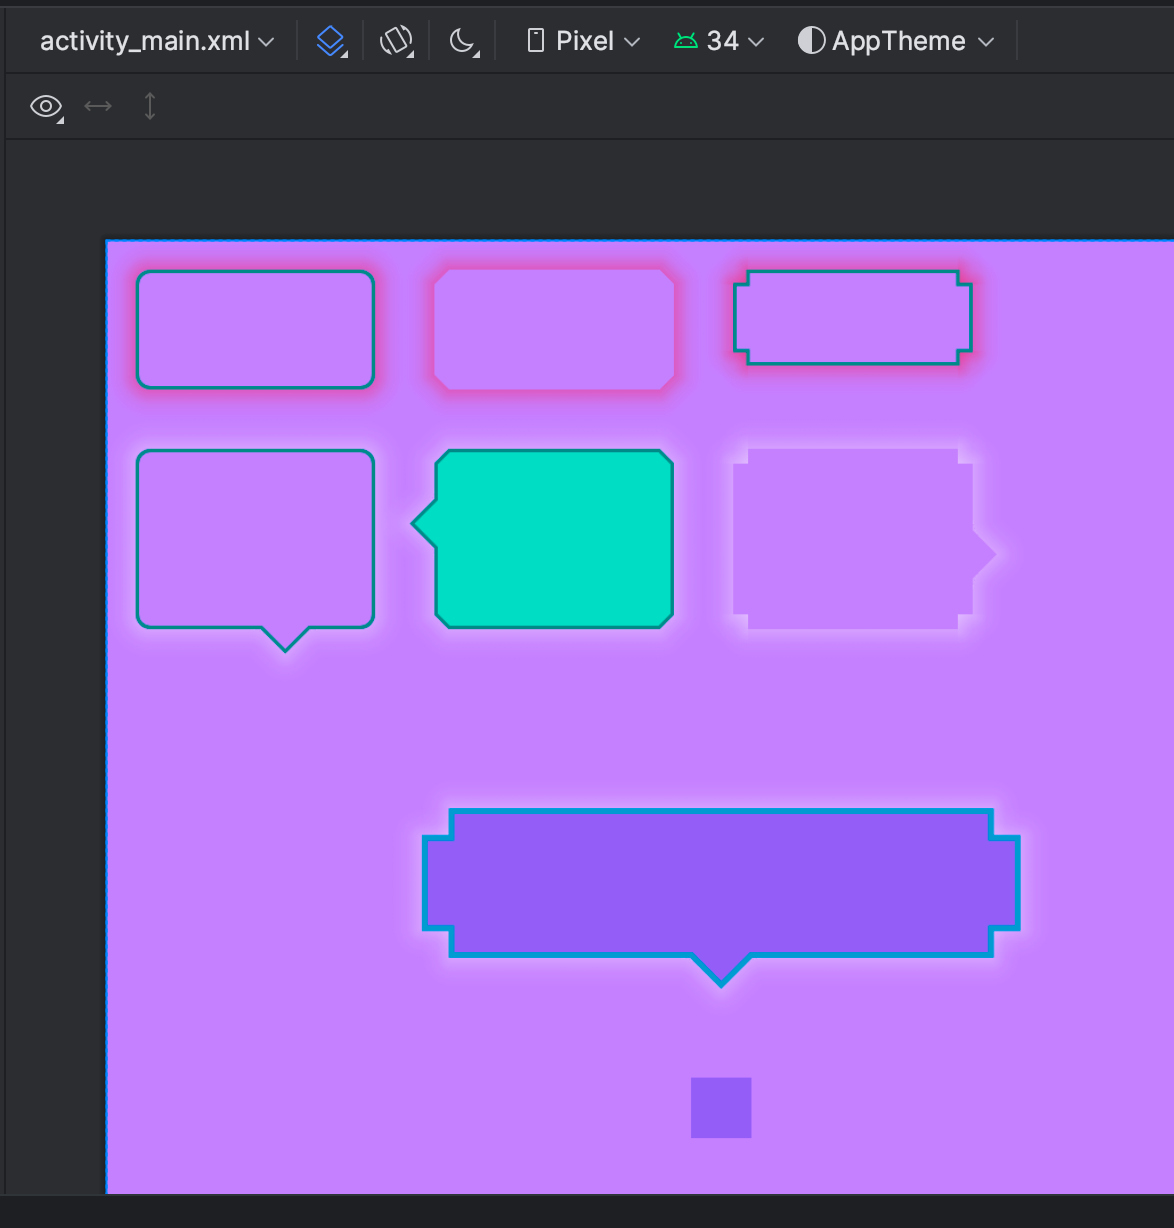
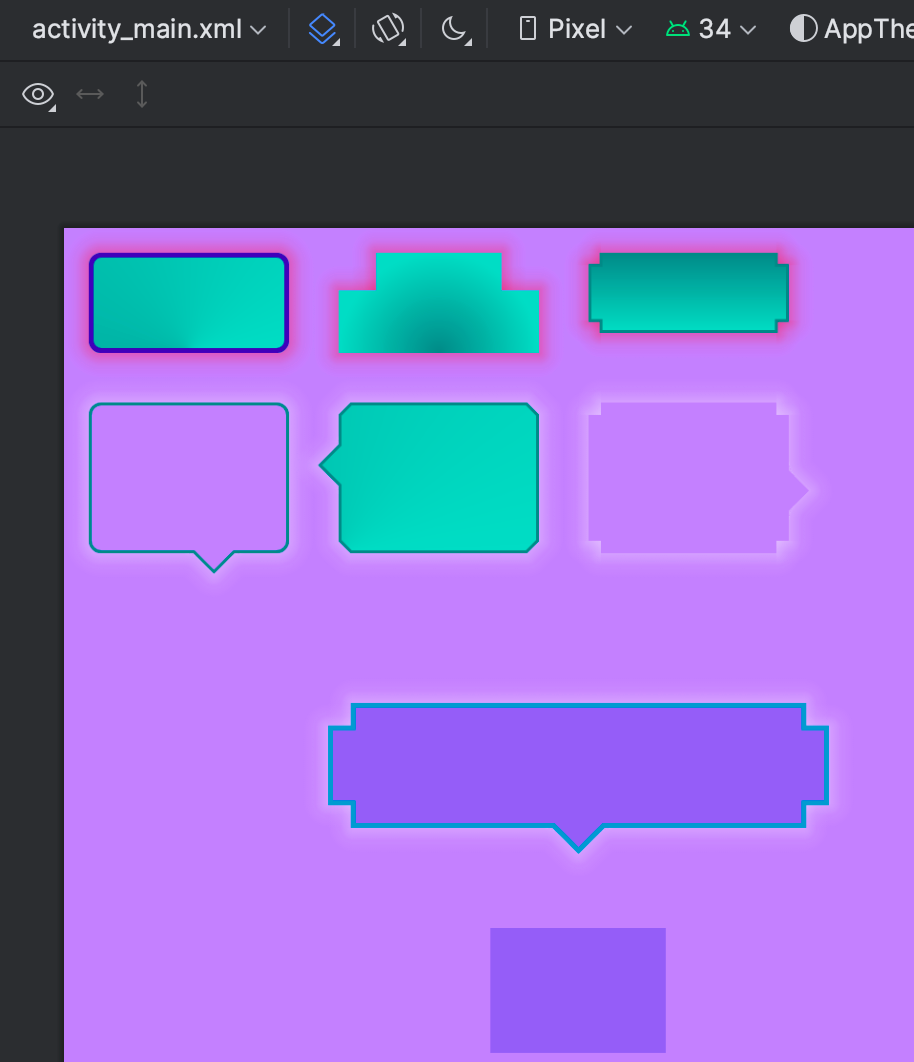
#

diff --git a/shapeable/src/main/java/me/reezy/cosmo/shapeable/ShapeableDrawable.kt b/shapeable/src/main/java/me/reezy/cosmo/shapeable/ShapeableDrawable.kt
@@ -6,14 +6,22 @@ import android.content.res.ColorStateList
 import android.content.res.Resources
 import android.content.res.TypedArray
 import android.graphics.Color
+import android.graphics.LinearGradient
+import android.graphics.Paint
 import android.graphics.Path
+import android.graphics.RadialGradient
 import android.graphics.Rect
 import android.graphics.RectF
+import android.graphics.Shader
+import android.graphics.SweepGradient
+import android.graphics.drawable.GradientDrawable
 import android.util.AttributeSet
 import androidx.core.content.res.TypedArrayUtils.obtainAttributes
 import androidx.core.graphics.ColorUtils
+import androidx.core.graphics.toRectF
 import com.google.android.material.shadow.ShadowRenderer
 import com.google.android.material.shape.CornerSize
+import com.google.android.material.shape.CornerTreatment
 import com.google.android.material.shape.CutCornerTreatment
 import com.google.android.material.shape.MaterialShapeDrawable
 import com.google.android.material.shape.RoundedCornerTreatment
@@ -38,6 +46,7 @@ class ShapeableDrawable(shapeModel: ShapeAppearanceModel) : MaterialShapeDrawabl
     val clipPath = Path()
 
     private val clipRect: RectF = RectF()
+    private val mGradientState = GradientState()
 
     constructor() : this(ShapeAppearanceModel())
 
@@ -57,45 +66,72 @@ class ShapeableDrawable(shapeModel: ShapeAppearanceModel) : MaterialShapeDrawabl
         ta.recycle()
     }
 
-    private fun initAttrs(ta: TypedArray) {
-        strokeColor = ta.getColorStateList(R.styleable.ShapeableDrawable_strokeColor)
-        strokeWidth = ta.getDimensionPixelSize(R.styleable.ShapeableDrawable_strokeWidth, 0).toFloat()
-        tintList = ta.getColorStateList(R.styleable.ShapeableDrawable_backgroundTint) ?: ColorStateList.valueOf(Color.TRANSPARENT)
+    private fun initAttrs(a: TypedArray) {
+        strokeColor = a.getColorStateList(R.styleable.ShapeableDrawable_strokeColor)
+        strokeWidth = a.getDimensionPixelSize(R.styleable.ShapeableDrawable_strokeWidth, 0).toFloat()
+        tintList = a.getColorStateList(R.styleable.ShapeableDrawable_backgroundTint) ?: ColorStateList.valueOf(Color.TRANSPARENT)
 
-        if (ta.hasValue(R.styleable.ShapeableDrawable_cornerSize)) {
-            setCornerSize(ta.getDimensionPixelSize(R.styleable.ShapeableDrawable_cornerSize, 0).toFloat())
+        val cornerSize = a.getDimension(R.styleable.ShapeableDrawable_cornerSize, 0f)
+        if (cornerSize > 0f) {
+            val cornerType = a.getInteger(R.styleable.ShapeableDrawable_cornerType, 0)
+            val cornerPosition = a.getInteger(R.styleable.ShapeableDrawable_cornerPosition, 0)
+            setCorners(cornerSize, cornerPosition, cornerType)
         }
 
-        if (ta.hasValue(R.styleable.ShapeableDrawable_cornerType)) {
-            val cornerTreatment = when(ta.getInteger(R.styleable.ShapeableDrawable_cornerType, 0)) {
-                0 -> RoundedCornerTreatment()
-                1 -> CutCornerTreatment()
-                2 -> ConcaveCornerTreatment()
-                else -> RoundedCornerTreatment()
-            }
-            shapeAppearanceModel =  shapeAppearanceModel.toBuilder().setAllCorners(cornerTreatment).build()
+        // 渐变背景色
+        mGradientState.gradientColors = a.getGradientColors()
+        mGradientState.gradientType = a.getInt(R.styleable.ShapeableDrawable_gradientType, GradientDrawable.LINEAR_GRADIENT)
+        mGradientState.gradientRadius = a.getDimension(R.styleable.ShapeableDrawable_gradientRadius, 0f)
+        mGradientState.gradientCenterX = a.getFloat(R.styleable.ShapeableDrawable_gradientCenterX, 0.5f)
+        mGradientState.gradientCenterY = a.getFloat(R.styleable.ShapeableDrawable_gradientCenterY, 0.5f)
+        mGradientState.gradientOrientation = try {
+            GradientDrawable.Orientation.values()[a.getInt(R.styleable.ShapeableDrawable_gradientOrientation, 0)]
+        } catch (e: IndexOutOfBoundsException) {
+            GradientDrawable.Orientation.TOP_BOTTOM
         }
 
-        if (ta.hasValue(R.styleable.ShapeableDrawable_shadowRadius)) {
-            shadowRadius = ta.getDimensionPixelSize(R.styleable.ShapeableDrawable_shadowRadius, 0)
-        }
-        if (ta.hasValue(R.styleable.ShapeableDrawable_shadowColor)) {
-            setShadowColor(ta.getColor(R.styleable.ShapeableDrawable_shadowColor, 0))
+        if (mGradientState.gradientColors != null) {
+            setUseTintColorForShadow(false)
+            tintList = null
         }
 
+        // 阴影
+        if (a.hasValue(R.styleable.ShapeableDrawable_shadowRadius)) {
+            shadowRadius = a.getDimensionPixelSize(R.styleable.ShapeableDrawable_shadowRadius, 0)
+        }
+        if (a.hasValue(R.styleable.ShapeableDrawable_shadowColor)) {
+            setShadowColor(a.getColor(R.styleable.ShapeableDrawable_shadowColor, 0))
+        }
+        if (a.hasValue(R.styleable.ShapeableDrawable_shadowOffsetX) || a.hasValue(R.styleable.ShapeableDrawable_shadowOffsetY)) {
+            val shadowOffsetY = a.getDimensionPixelSize(R.styleable.ShapeableDrawable_shadowOffsetY, 0)
+            val shadowOffsetX = a.getDimensionPixelSize(R.styleable.ShapeableDrawable_shadowOffsetX, 0)
+            setShadowOffset(shadowOffsetX, shadowOffsetY)
+        }
 
-        val shadowOffsetY = ta.getDimensionPixelSize(R.styleable.ShapeableDrawable_shadowOffsetY, 0)
-        val shadowOffsetX = ta.getDimensionPixelSize(R.styleable.ShapeableDrawable_shadowOffsetX, 0)
-        setShadowOffset(shadowOffsetX, shadowOffsetY)
 
-
-        val arrowSize = ta.getDimension(R.styleable.ShapeableDrawable_arrowSize, 0f)
+        // 汽泡箭头
+        val arrowSize = a.getDimension(R.styleable.ShapeableDrawable_arrowSize, 0f)
         if (arrowSize > 0f) {
-            val arrowOffset = ta.getDimension(R.styleable.ShapeableDrawable_arrowOffset, 0f)
-            val arrowEdge = ta.getInteger(R.styleable.ShapeableDrawable_arrowEdge,  ArrowEdgeTreatment.EDGE_BOTTOM)
-            val arrowAlign = ta.getInteger(R.styleable.ShapeableDrawable_arrowAlign, ArrowEdgeTreatment.ALIGN_CENTER )
+            val arrowOffset = a.getDimension(R.styleable.ShapeableDrawable_arrowOffset, 0f)
+            val arrowEdge = a.getInteger(R.styleable.ShapeableDrawable_arrowEdge,  ArrowEdgeTreatment.EDGE_BOTTOM)
+            val arrowAlign = a.getInteger(R.styleable.ShapeableDrawable_arrowAlign, ArrowEdgeTreatment.ALIGN_CENTER )
             setArrow(arrowSize, arrowOffset, arrowEdge, arrowAlign)
         }
+    }
+
+    private fun TypedArray.getGradientColors(): IntArray? {
+
+        val hasStartColor = hasValue(R.styleable.ShapeableDrawable_gradientStartColor)
+        val hasCenterColor = hasValue(R.styleable.ShapeableDrawable_gradientCenterColor)
+        val hasEndColor = hasValue(R.styleable.ShapeableDrawable_gradientEndColor)
+
+        if (hasStartColor || hasCenterColor || hasEndColor) {
+            val start = getColor(R.styleable.ShapeableDrawable_gradientStartColor, 0)
+            val center = getColor(R.styleable.ShapeableDrawable_gradientCenterColor, 0)
+            val end = getColor(R.styleable.ShapeableDrawable_gradientEndColor, 0)
+            return if (hasCenterColor) intArrayOf(start, center, end) else intArrayOf(start, end)
+        }
+        return null
     }
 
     @Suppress("OVERRIDE_DEPRECATION")
@@ -103,6 +139,47 @@ class ShapeableDrawable(shapeModel: ShapeAppearanceModel) : MaterialShapeDrawabl
         @Suppress("DEPRECATION")
         super.setShadowRadius(radius)
     }
+
+    private fun setCorners(size: Float, position: Int, type: Int) {
+        val corner = when(type) {
+            0 -> RoundedCornerTreatment()
+            1 -> CutCornerTreatment()
+            2 -> ConcaveCornerTreatment()
+            else -> RoundedCornerTreatment()
+        }
+        val builder = shapeAppearanceModel.toBuilder()
+        shapeAppearanceModel =  when (position) {
+            1 -> builder.tl(corner, size).build()
+            2 -> builder.tr(corner, size).build()
+            3 -> builder.bl(corner, size).build()
+            4 -> builder.br(corner, size).build()
+
+            5 -> builder.tl(corner, size).tr(corner, size).build()
+            6 -> builder.bl(corner, size).br(corner, size).build()
+            7 -> builder.tl(corner, size).bl(corner, size).build()
+            8 -> builder.tr(corner, size).br(corner, size).build()
+
+            9 -> builder.tl(corner, size).br(corner, size).build()
+            10 -> builder.bl(corner, size).tr(corner, size).build()
+
+            11 -> builder.tr(corner, size).bl(corner, size).br(corner, size).build()
+            12 -> builder.tl(corner, size).bl(corner, size).br(corner, size).build()
+            13 -> builder.tl(corner, size).tr(corner, size).br(corner, size).build()
+            14 -> builder.tl(corner, size).tr(corner, size).bl(corner, size).build()
+
+            else -> builder.setAllCorners(corner).setAllCornerSizes(size).build()
+        }
+
+    }
+
+    private inline fun ShapeAppearanceModel.Builder.tl(cornerTreatment: CornerTreatment, size: Float) =
+        setTopLeftCorner(cornerTreatment).setTopLeftCornerSize(size)
+    private inline fun ShapeAppearanceModel.Builder.tr(cornerTreatment: CornerTreatment, size: Float) =
+        setTopRightCorner(cornerTreatment).setTopRightCornerSize(size)
+    private inline fun ShapeAppearanceModel.Builder.bl(cornerTreatment: CornerTreatment, size: Float) =
+        setBottomLeftCorner(cornerTreatment).setBottomLeftCornerSize(size)
+    private inline fun ShapeAppearanceModel.Builder.br(cornerTreatment: CornerTreatment, size: Float) =
+        setBottomRightCorner(cornerTreatment).setBottomRightCornerSize(size)
 
     fun setShadowOffset(offsetX: Int, offsetY: Int) {
         if (offsetX != 0) {
@@ -137,6 +214,11 @@ class ShapeableDrawable(shapeModel: ShapeAppearanceModel) : MaterialShapeDrawabl
     override fun onBoundsChange(bounds: Rect) {
         super.onBoundsChange(bounds)
         updateClipPath(bounds.width(), bounds.height())
+
+        mGradientState.createFillShader(bounds.toRectF()) ?.let {
+            (fieldFillPaint.get(this) as Paint).shader = it
+        }
+        invalidateSelf()
     }
 
 
@@ -150,6 +232,49 @@ class ShapeableDrawable(shapeModel: ShapeAppearanceModel) : MaterialShapeDrawabl
         }
 
         clipPathProvider.calculatePath(newModel, 1f, clipRect, clipPath)
+    }
+
+    private class GradientState {
+
+        var gradientColors: IntArray? = null
+        var gradientType: Int = GradientDrawable.LINEAR_GRADIENT
+        var gradientOrientation: GradientDrawable.Orientation = GradientDrawable.Orientation.TL_BR
+        var gradientCenterX: Float = 0.5f
+        var gradientCenterY: Float = 0.5f
+        var gradientRadius: Float = 0.5f
+
+        fun createFillShader(rect: RectF): Shader? = when {
+            gradientColors == null -> null
+            gradientType == GradientDrawable.LINEAR_GRADIENT -> {
+                val r = when (gradientOrientation) {
+                    GradientDrawable.Orientation.TOP_BOTTOM -> RectF(rect.left, rect.top, rect.left, rect.bottom)
+                    GradientDrawable.Orientation.TR_BL -> RectF(rect.right, rect.top, rect.left, rect.bottom)
+                    GradientDrawable.Orientation.RIGHT_LEFT -> RectF(rect.right, rect.top, rect.left, rect.top)
+                    GradientDrawable.Orientation.BR_TL -> RectF(rect.right, rect.bottom, rect.left, rect.top)
+                    GradientDrawable.Orientation.BOTTOM_TOP -> RectF(rect.left, rect.bottom, rect.left, rect.top)
+                    GradientDrawable.Orientation.BL_TR -> RectF(rect.left, rect.bottom, rect.right, rect.top)
+                    GradientDrawable.Orientation.LEFT_RIGHT -> RectF(rect.left, rect.top, rect.right, rect.top)
+                    else -> RectF(rect.left, rect.top, rect.right, rect.bottom)
+                }
+                LinearGradient(r.left, r.top, r.right, r.bottom, gradientColors!!, null, Shader.TileMode.CLAMP)
+            }
+            gradientType == GradientDrawable.RADIAL_GRADIENT -> {
+                if (gradientRadius > 0) {
+                    val x0 = rect.left + (rect.right - rect.left) * gradientCenterX
+                    val y0 = rect.top + (rect.bottom - rect.top) * gradientCenterY
+                    RadialGradient(x0, y0, gradientRadius, gradientColors!!, null, Shader.TileMode.CLAMP)
+                } else {
+                    null
+                }
+            }
+            gradientType == GradientDrawable.SWEEP_GRADIENT -> {
+                val x0 = rect.left + (rect.right - rect.left) * gradientCenterX
+                val y0 = rect.top + (rect.bottom - rect.top) * gradientCenterY
+                SweepGradient(x0, y0, gradientColors!!, null)
+            }
+            else -> null
+        }
+
     }
 
     private class RealShadowRenderer : ShadowRenderer() {
@@ -172,6 +297,7 @@ class ShapeableDrawable(shapeModel: ShapeAppearanceModel) : MaterialShapeDrawabl
         private val clipPathProvider = ShapeAppearancePathProvider()
 
         private val fieldShadowRenderer by field(MaterialShapeDrawable::class.java, "shadowRenderer")
+        private val fieldFillPaint by field(MaterialShapeDrawable::class.java, "fillPaint")
 
         private val fieldShadowStartColor by field(ShadowRenderer::class.java, "shadowStartColor")
         private val fieldShadowMiddleColor by field(ShadowRenderer::class.java, "shadowMiddleColor")

diff --git a/README.md b/README.md
@@ -13,7 +13,7 @@ repositories {
     maven { url "https://gitee.com/ezy/repo/raw/cosmo/"}
 }
 dependencies {
-    implementation "me.reezy.cosmo:shapeable:0.9.0"
+    implementation "me.reezy.cosmo:shapeable:0.10.0"
 }
 ```
 
